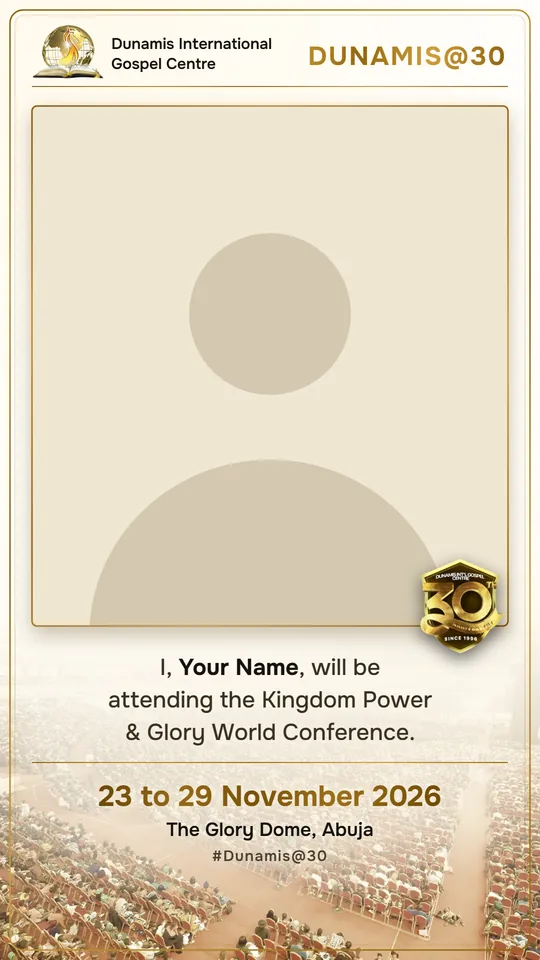
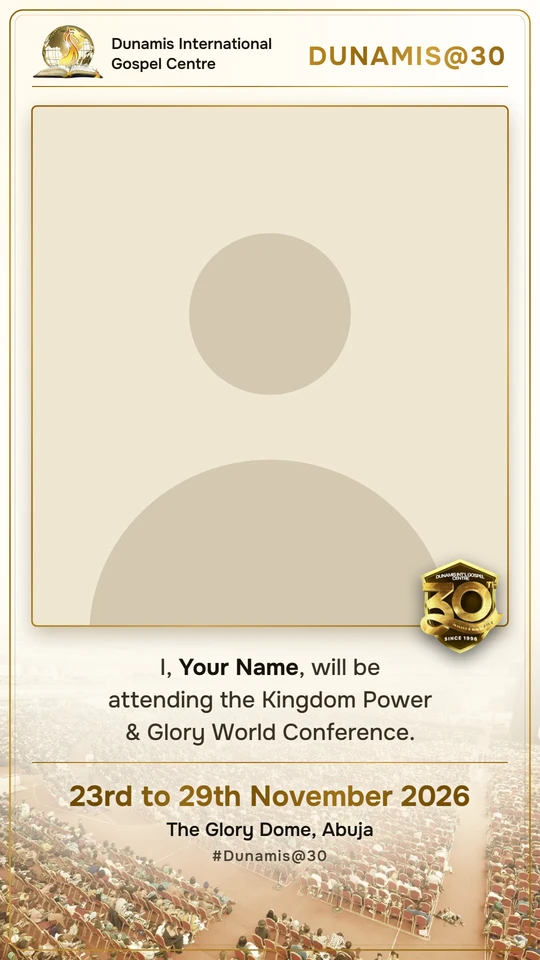
The I Am Attending card and its share text say 23rd to 29th November 2026, with the home page sample card re-made to match

Changed region(s): [[0.3259, 0.8125, 0.8889, 0.8438], [0.1185, 0.8125, 0.2963, 0.8438]]

diff --git a/src/lib/cardFrames.ts b/src/lib/cardFrames.ts
@@ -10,7 +10,8 @@ export type TemplateId = 'pearl' | 'glory' | 'nations' | 'emerald' | 'royal' | '
 export type PhotoSource = HTMLImageElement | HTMLCanvasElement
 
 export const CARD = { w: 1080, h: 1920 }
-export const EVENT = { title: 'Kingdom Power & Glory World Conference', date: '23 to 29 November 2026', venue: 'The Glory Dome, Abuja' }
+// The card says 23rd and 29th, at the church's request (7 Nov 2026). The rest of the site says 23 to 29 November.
+export const EVENT = { title: 'Kingdom Power & Glory World Conference', date: '23rd to 29th November 2026', venue: 'The Glory Dome, Abuja' }
 
 export type CardAssets = { crest: HTMLImageElement; emblem: HTMLImageElement; crowd: HTMLImageElement; dome: HTMLImageElement | null; nations: HTMLImageElement | null }
 
@@ -441,7 +442,13 @@ export function drawCard(ctx: CanvasRenderingContext2D, input: CardInput, assets
   ctx.textAlign = 'center'
   ctx.textBaseline = 'alphabetic'
   lift(true)
-  ctx.font = `700 58px ${font}`
+  // The date fills the line at most: a longer date gets a slightly smaller size rather than running into the frame.
+  let dateSize = 58
+  ctx.font = `700 ${dateSize}px ${font}`
+  while (ctx.measureText(EVENT.date).width > w - M * 2 - 48 && dateSize > 44) {
+    dateSize -= 2
+    ctx.font = `700 ${dateSize}px ${font}`
+  }
   ctx.fillStyle = foil(ctx, w * 0.2, 0, w * 0.8, 0, light ? DEEP_GOLD : BRIGHT_GOLD)
   ctx.fillText(EVENT.date, w / 2, LINE.date)
   ctx.font = `600 38px ${font}`

diff --git a/src/app/(frontend)/social-card/CardStudio.tsx b/src/app/(frontend)/social-card/CardStudio.tsx
@@ -89,7 +89,7 @@ const STEPS = ['Photo', 'Details', 'Backdrop'] as const
 const LAST_STEP = STEPS.length - 1
 const isPhone = () => window.matchMedia('(max-width: 1023px)').matches
 
-const SHARE_TEXT = 'I will be attending the Kingdom Power & Glory World Conference, 23 to 29 November! #DunamisAt30'
+const SHARE_TEXT = 'I will be attending the Kingdom Power & Glory World Conference, 23rd to 29th November! #DunamisAt30'
 const CARD_PAGE = '/social-card'
 
 /** Counting cards is nice to have. If it fails, with no signal for example, the visitor never needs to know. */
